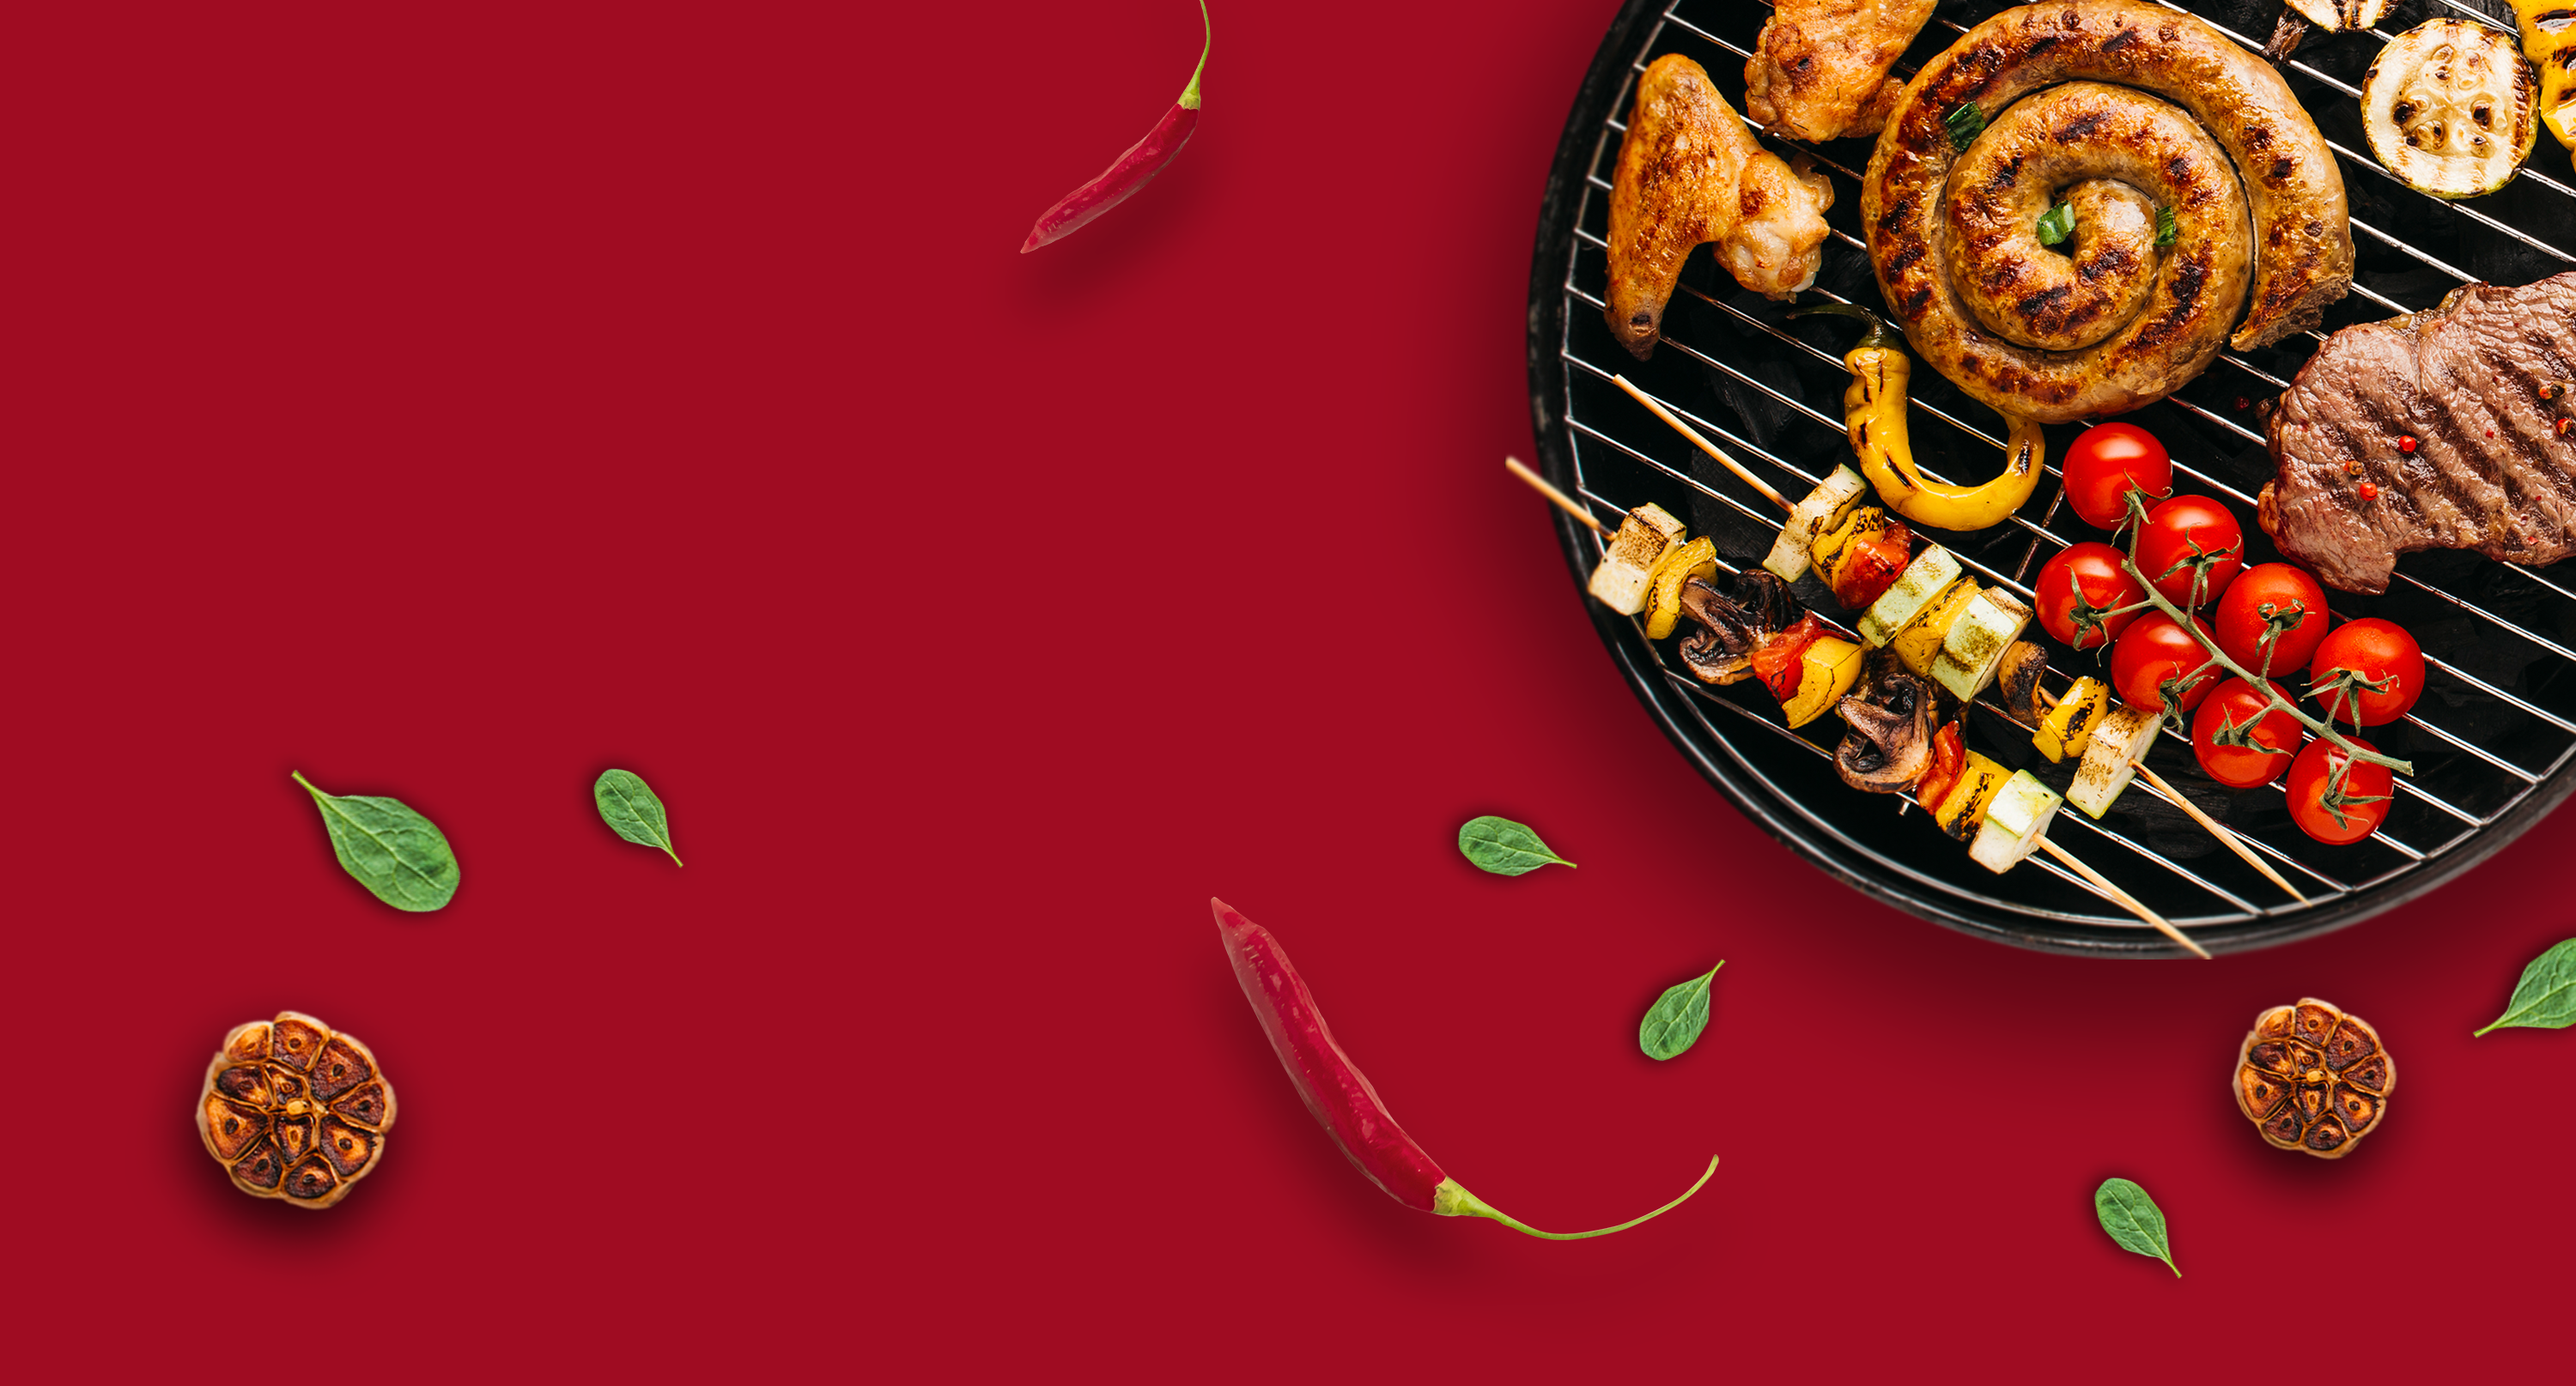
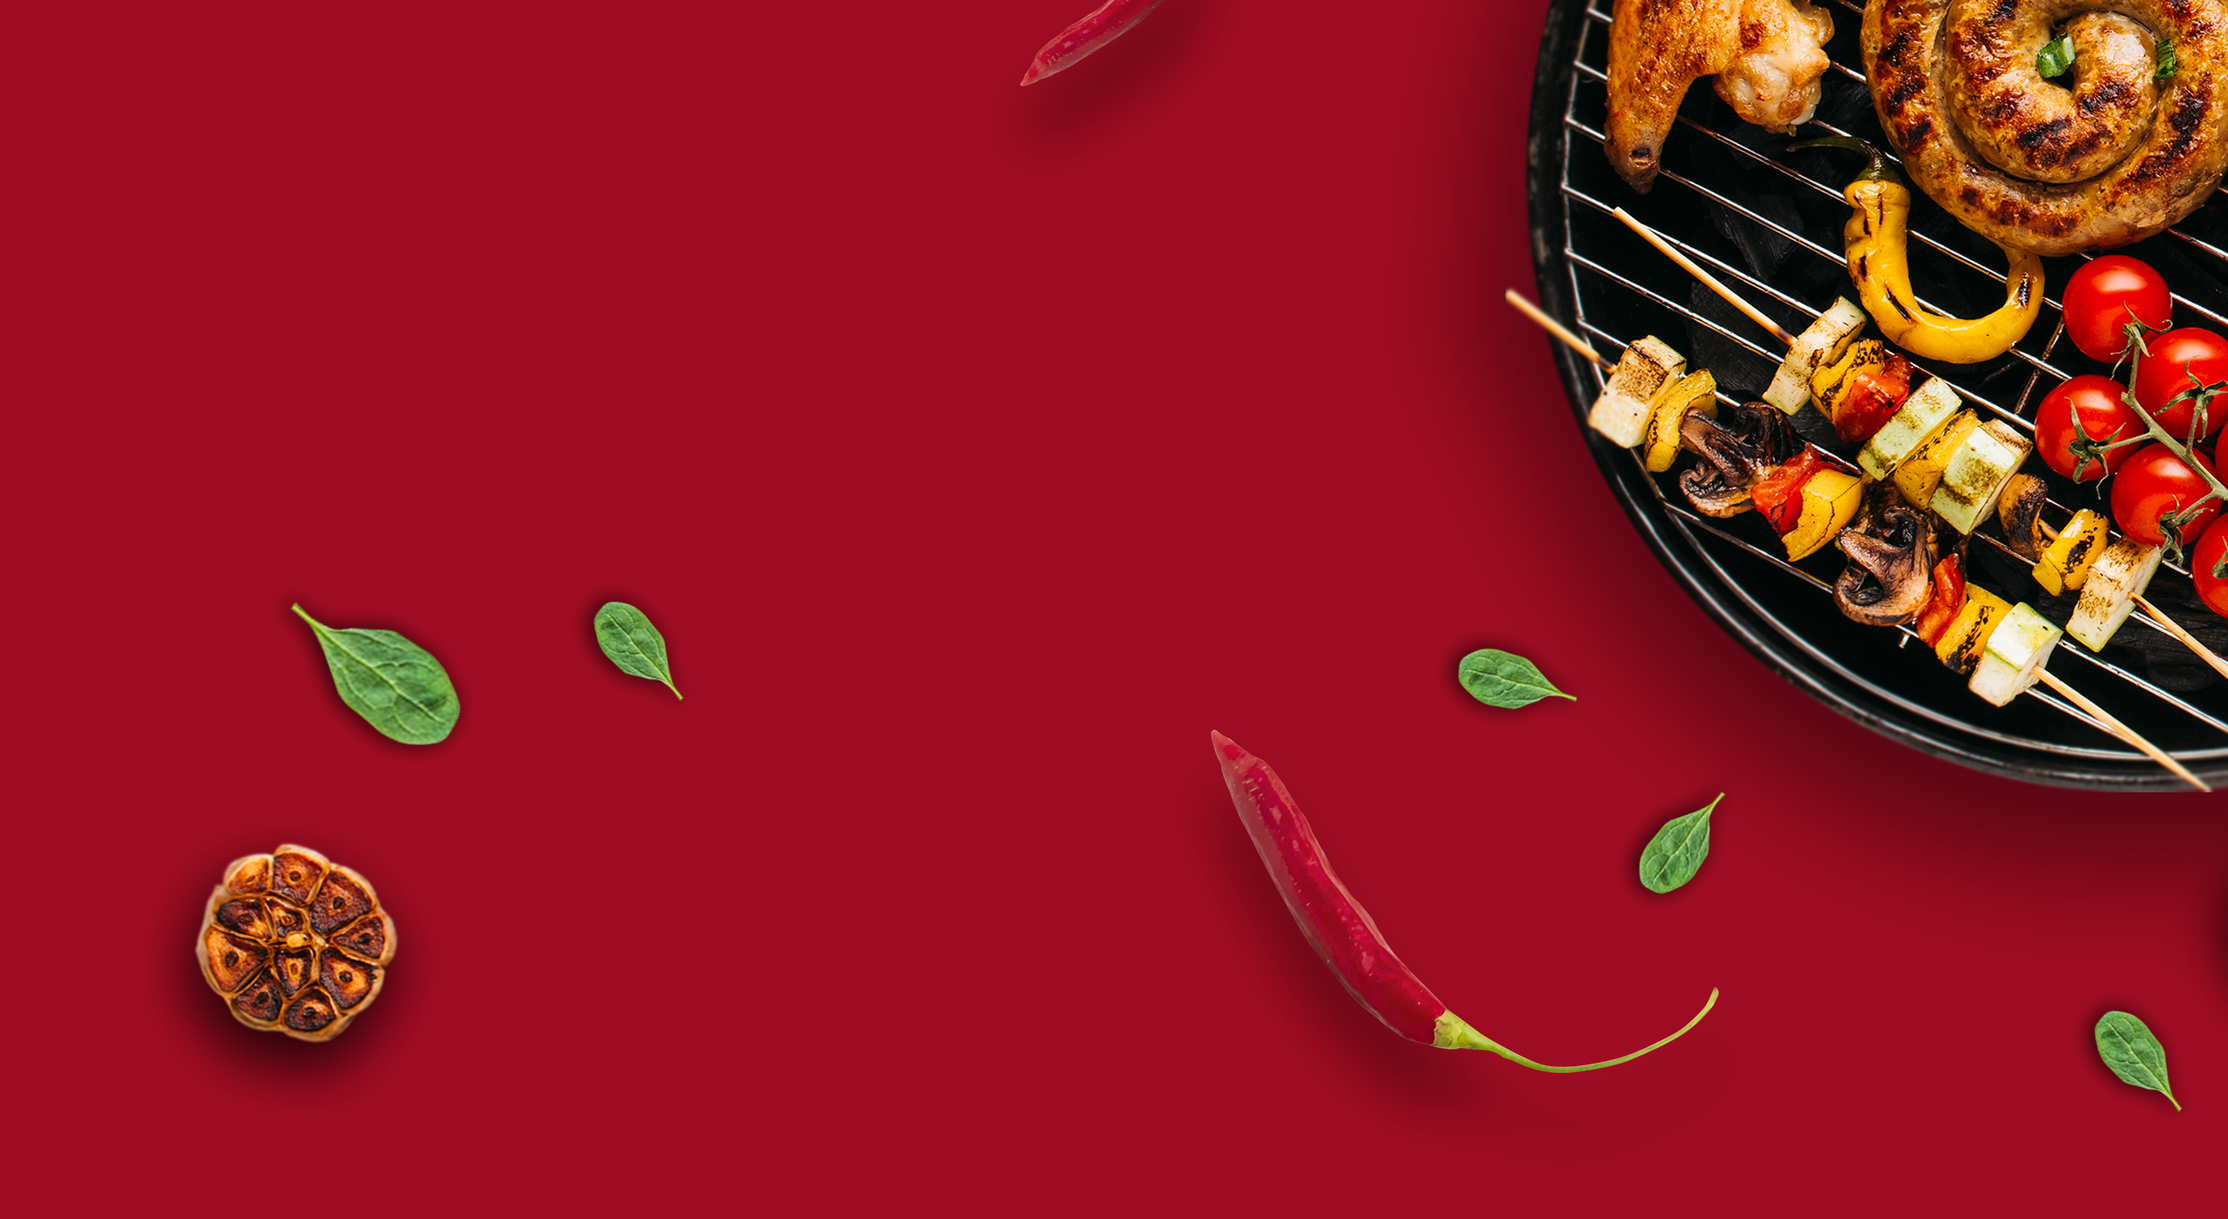
hihi

diff --git a/TBS-Grillshop eksamensprojekt/css/style.css b/TBS-Grillshop eksamensprojekt/css/style.css
@@ -1,1 +1,38 @@
-/*# sourceMappingURL=style.css.map */
+@import url("//db.onlinewebfonts.com/c/c11f09354fd4806c55145d568617bf1a?family=Mocha+Mattari");
+@import url("https://fonts.cdnfonts.com/css/tox-typewriter");
+@import url("https://fonts.cdnfonts.com/css/din-next-slab");
+/*font-family: 'Mocha Mattari';
+font-family: 'Tox Typewriter', sans-serif;
+font-family: 'DIN Next Slab', sans-serif;
+*/
+.firstsection .dates {
+  font-family: "DIN Next Slab", sans-serif;
+  font-size: 17px;
+  color: #f9f9f9;
+}
+.firstsection h1 {
+  font-family: "Mocha Mattari";
+  font-size: 70px;
+  color: #f9f9f9;
+}
+.firstsection .underline {
+  font-family: "Tox Typewriter", sans-serif;
+  font-size: 20px;
+  color: #f9f9f9;
+}
+.firstsection {
+  padding: 0 10%;
+  height: 380px;
+}
+.firstsection .rightbox {
+  background-image: url(../img/pic.png);
+  background-size: cover;
+  padding: 0;
+  position: absolute;
+  right: calc(-50vw + 50%);
+  height: 380px;
+  width: 63.7%;
+}
+.firstsection .rightbox .text {
+  margin-left: 55px;
+}/*# sourceMappingURL=style.css.map */

diff --git a/TBS-Grillshop eksamensprojekt/index.html b/TBS-Grillshop eksamensprojekt/index.html
@@ -11,8 +11,9 @@
   
     <!--first section under frontpage-->
     <section>
-      <div class="container-fluid">
+      <div class="container-fluid firstsection">
         <div class="row">
+
           
           <div class="col-4 leftbox">
 
@@ -29,15 +30,15 @@
             </button>
           </div>
 
-          <div class="col-8 rightbox">
-              <p>13 - 14 MAJ 2023</p>
+          <div class="col-8 rightbox d-flex align-items-center">
+            <div class="text">
+              <p class="dates">13 - 14 MAJ 2023</p>
               <h1>SÆT KRYDS I KALENDEREN</h1>
-              <p>Vi finder danmarks mesteren i Amerikansk BBQ.</p>
-          
-
-            <button>
-              <p>DELTAG HER</p>
-            </button>
+              <p class="underline">Vi finder danmarks mesteren i Amerikansk BBQ.</p>
+              <button>
+                <p>DELTAG HER</p>
+              </button>
+            </div>
           </div>
         </div>
       </div>

diff --git a/TBS-Grillshop eksamensprojekt/css/_typography.scss b/TBS-Grillshop eksamensprojekt/css/_typography.scss
@@ -7,3 +7,28 @@
 font-family: 'Tox Typewriter', sans-serif;
 font-family: 'DIN Next Slab', sans-serif;
 */
+
+.firstsection {
+    .dates {
+        font-family: 'DIN Next Slab', sans-serif;
+        font-size: 17px;
+        color: #f9f9f9; 
+    }
+    
+    h1 {
+        font-family: 'Mocha Mattari';
+        font-size: 70px;
+        color: #f9f9f9;
+    }
+
+    .underline {
+        font-family: 'Tox Typewriter', sans-serif;
+        font-size: 20px;
+        color: #f9f9f9; 
+    }
+
+    .bottom {
+        
+    }
+
+}

diff --git a/TBS-Grillshop eksamensprojekt/css/style.scss b/TBS-Grillshop eksamensprojekt/css/style.scss
@@ -1,0 +1,23 @@
+@use "typography" as *;
+@use "colors" as *;
+
+.firstsection {
+    padding: 0 10%;
+    height: 380px;
+ 
+
+
+    .rightbox {
+        background-image: url(../img/pic.png);
+        background-size: cover;
+        padding: 0;
+        position: absolute;
+        right: calc(-50vw + 50%);
+        height: 380px;
+        width: 63.7%;
+
+        .text {
+            margin-left: 55px;
+        }
+    }
+}
